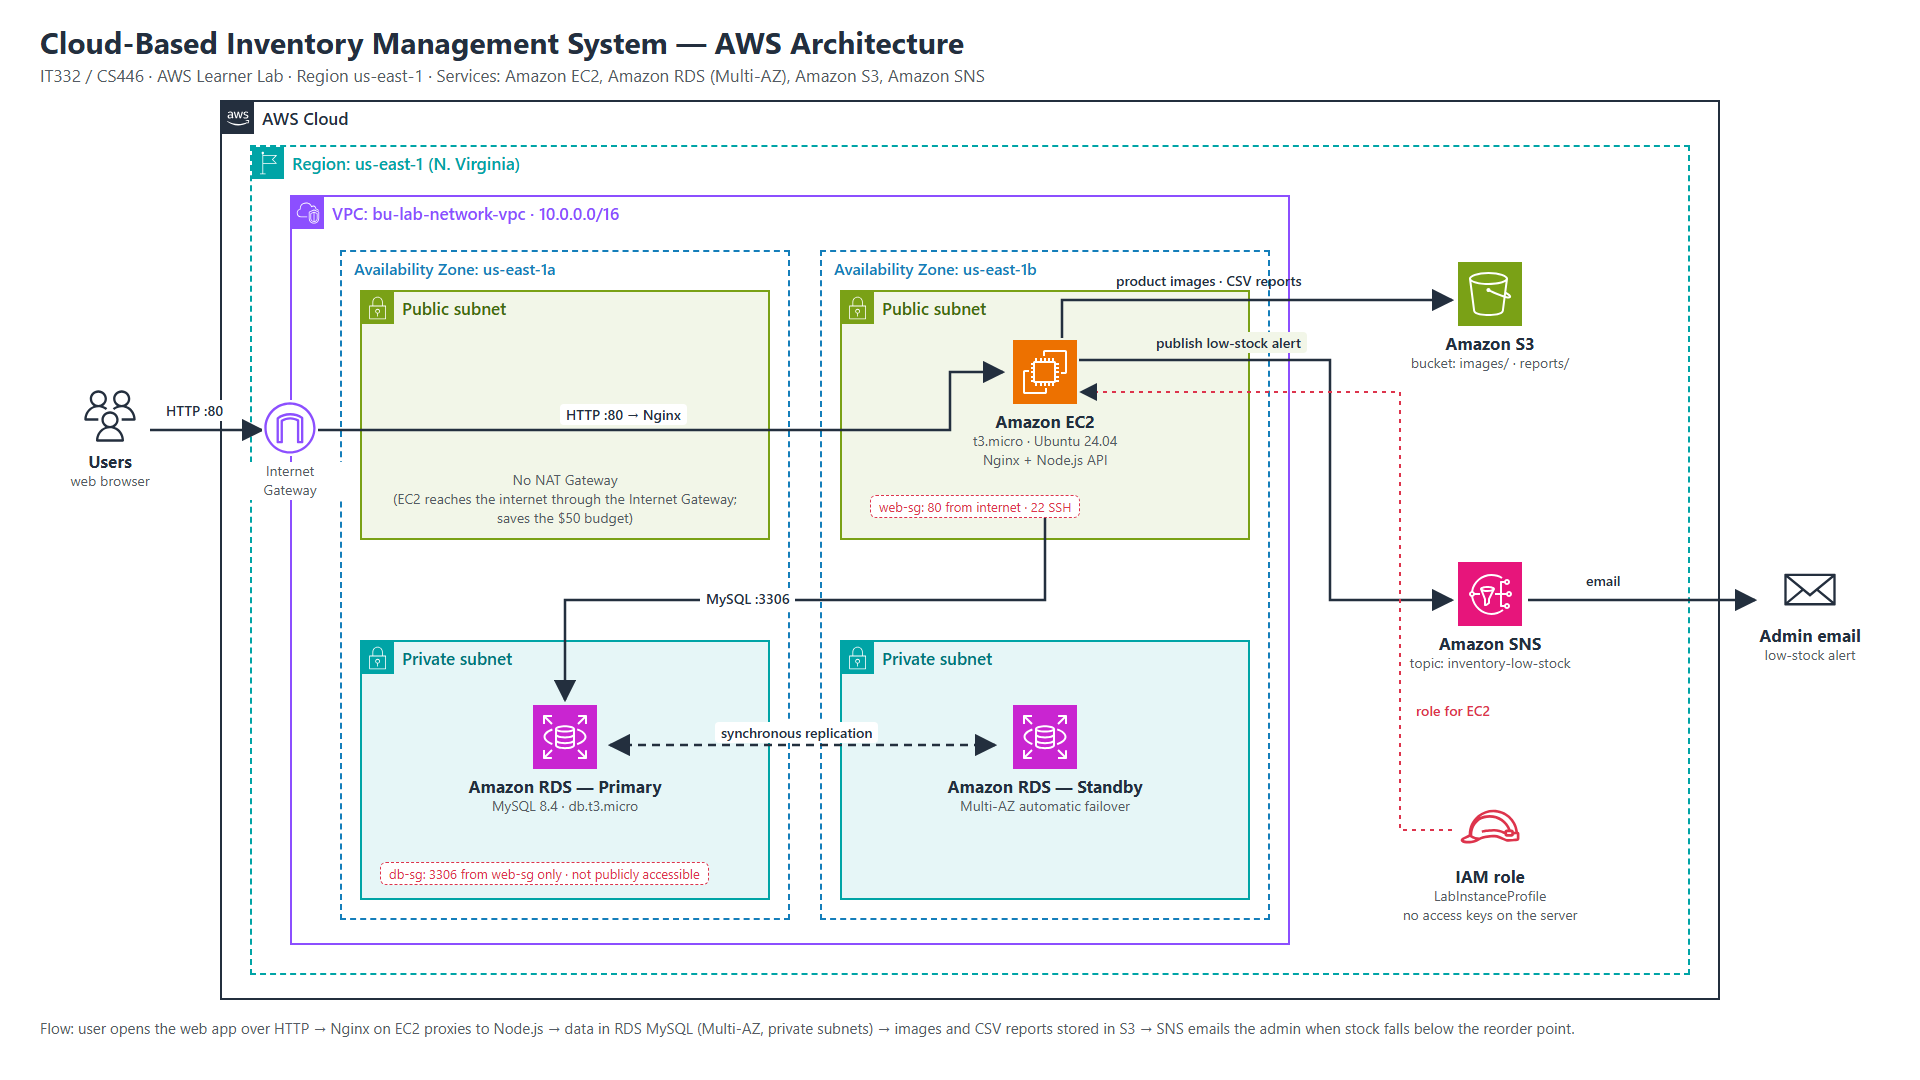
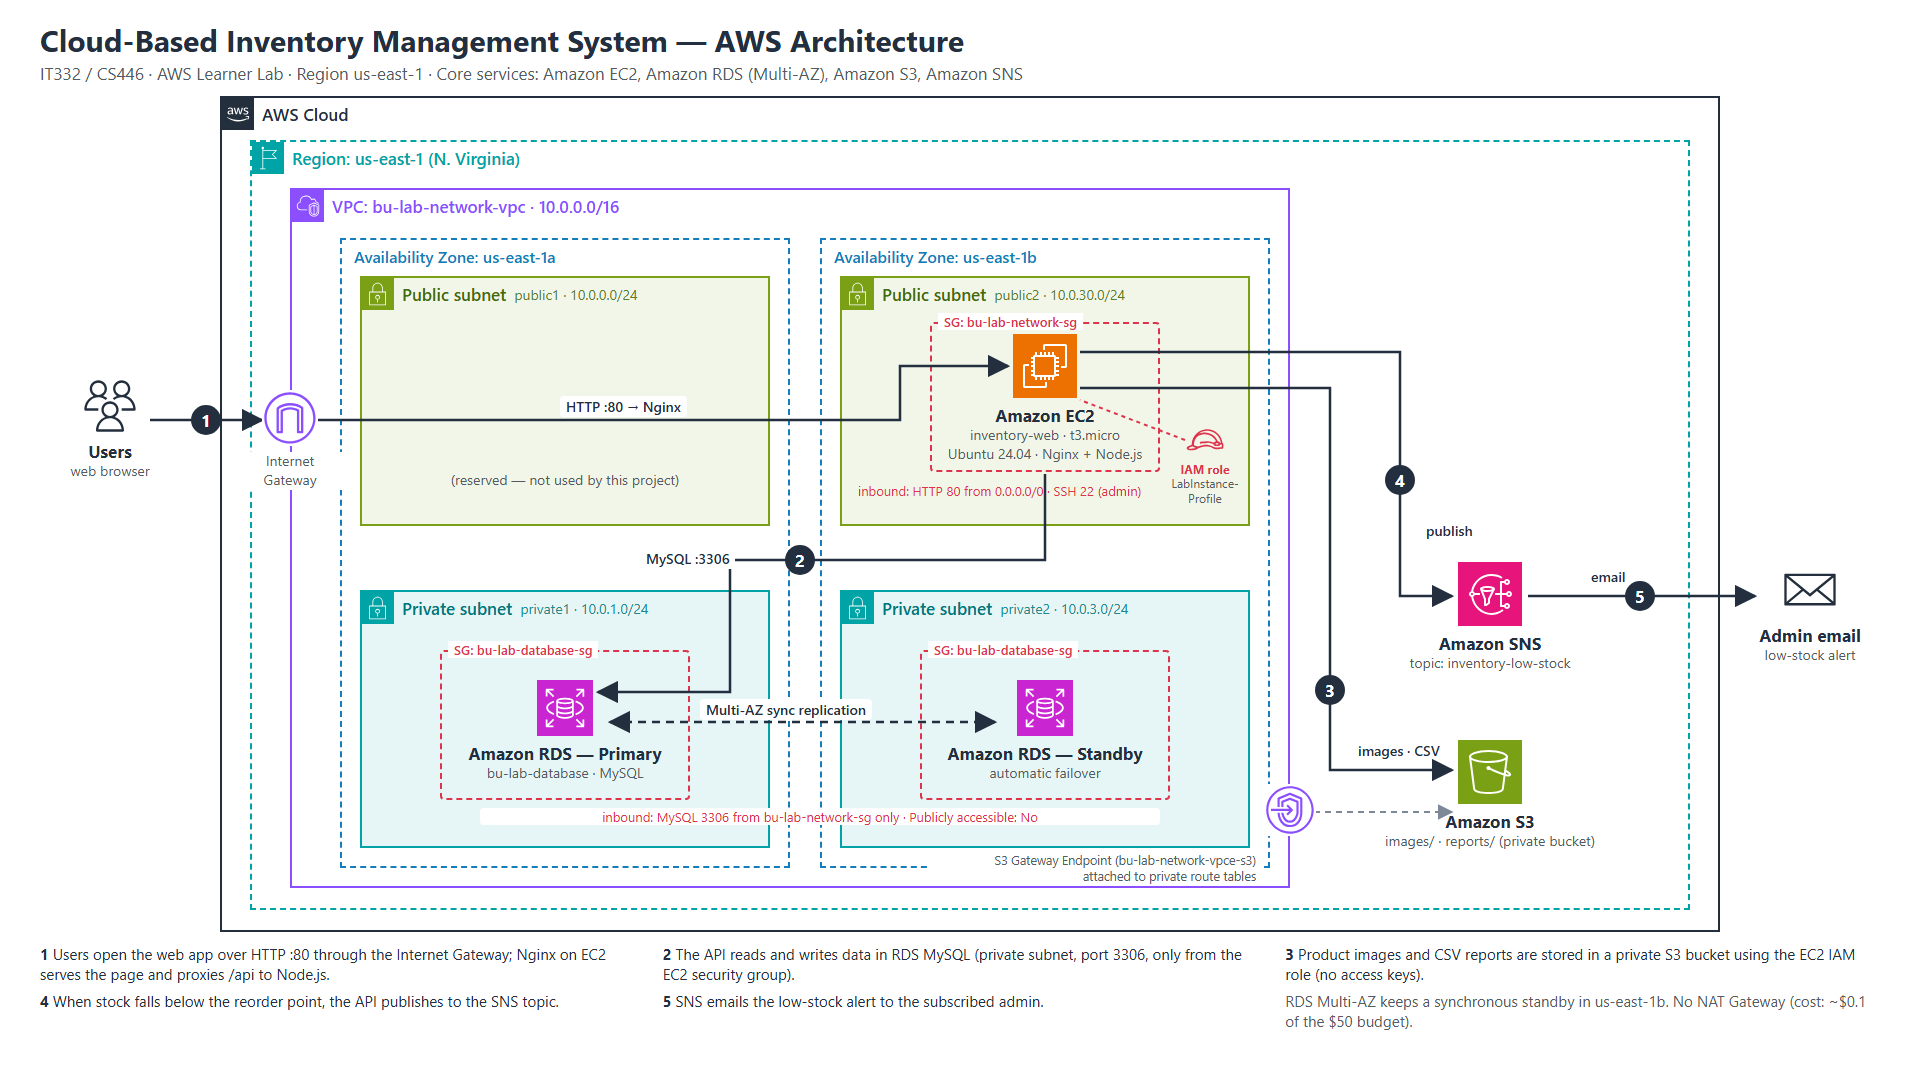
Update architecture diagram and fix subnet names in DEPLOY
Diagram: add S3 Gateway Endpoint, real security group names as SG boxes,
IAM role on EC2, subnet CIDRs and numbered request flow.
DEPLOY: wizard names the us-east-1b subnets public2/private2.

diff --git a/docs/DEPLOY.md b/docs/DEPLOY.md
@@ -64,7 +64,7 @@ VPC → **Create VPC** → เลือก **VPC and more**
 | Public subnets | 2 |
 | Private subnets | 2 |
 | NAT gateways | **None** (ดูหัวข้องบ ด้านบน) |
-| VPC endpoints | None หรือ S3 Gateway (ไม่มีค่าใช้จ่าย) |
+| VPC endpoints | **S3 Gateway** (ไม่มีค่าใช้จ่าย; Wizard ผูกกับ route table ของ private subnet ให้อัตโนมัติ) |
 | DNS hostnames / DNS resolution | เปิดทั้งคู่ |
 
 กด **Customize subnets CIDR blocks** แล้วตั้งตามแล็บ 7:
@@ -73,8 +73,8 @@ VPC → **Create VPC** → เลือก **VPC and more**
 |--------|----|------|
 | `bu-lab-network-subnet-public1-us-east-1a` | us-east-1a | `10.0.0.0/24` |
 | `bu-lab-network-subnet-private1-us-east-1a` | us-east-1a | `10.0.1.0/24` |
-| `bu-lab-network-subnet-public1-us-east-1b` ← **วาง EC2 ที่นี่** | us-east-1b | `10.0.YY.0/24` |
-| `bu-lab-network-subnet-private1-us-east-1b` | us-east-1b | `10.0.3.0/24` |
+| `bu-lab-network-subnet-public2-us-east-1b` ← **วาง EC2 ที่นี่** | us-east-1b | `10.0.YY.0/24` |
+| `bu-lab-network-subnet-private2-us-east-1b` | us-east-1b | `10.0.3.0/24` |
 
 `YY` = เลขสองหลักท้ายของรหัสนักศึกษาคนที่สร้าง VPC (ถ้าสองหลักท้ายเป็น `0X` ให้ใช้ `10 + X`) เช่น รหัสลงท้าย 30 → `10.0.30.0/24`
 (ชื่อ subnet ที่ Wizard ตั้งให้อาจต่างเล็กน้อย ให้ดูที่ CIDR และ AZ เป็นหลัก)
@@ -153,7 +153,7 @@ EC2 → **Launch instance**
 | Instance type | `t3.micro` |
 | Key pair | `vockey` (Learner Lab ให้มา) |
 | VPC | `bu-lab-network-vpc` |
-| Subnet | **`bu-lab-network-subnet-public1-us-east-1b`** (10.0.YY.0/24) |
+| Subnet | **`bu-lab-network-subnet-public2-us-east-1b`** (10.0.YY.0/24) |
 | Auto-assign public IP | **Enable** |
 | Security group | เลือกที่มีอยู่: `bu-lab-network-sg` |
 | Storage | 8 GiB gp3 |
